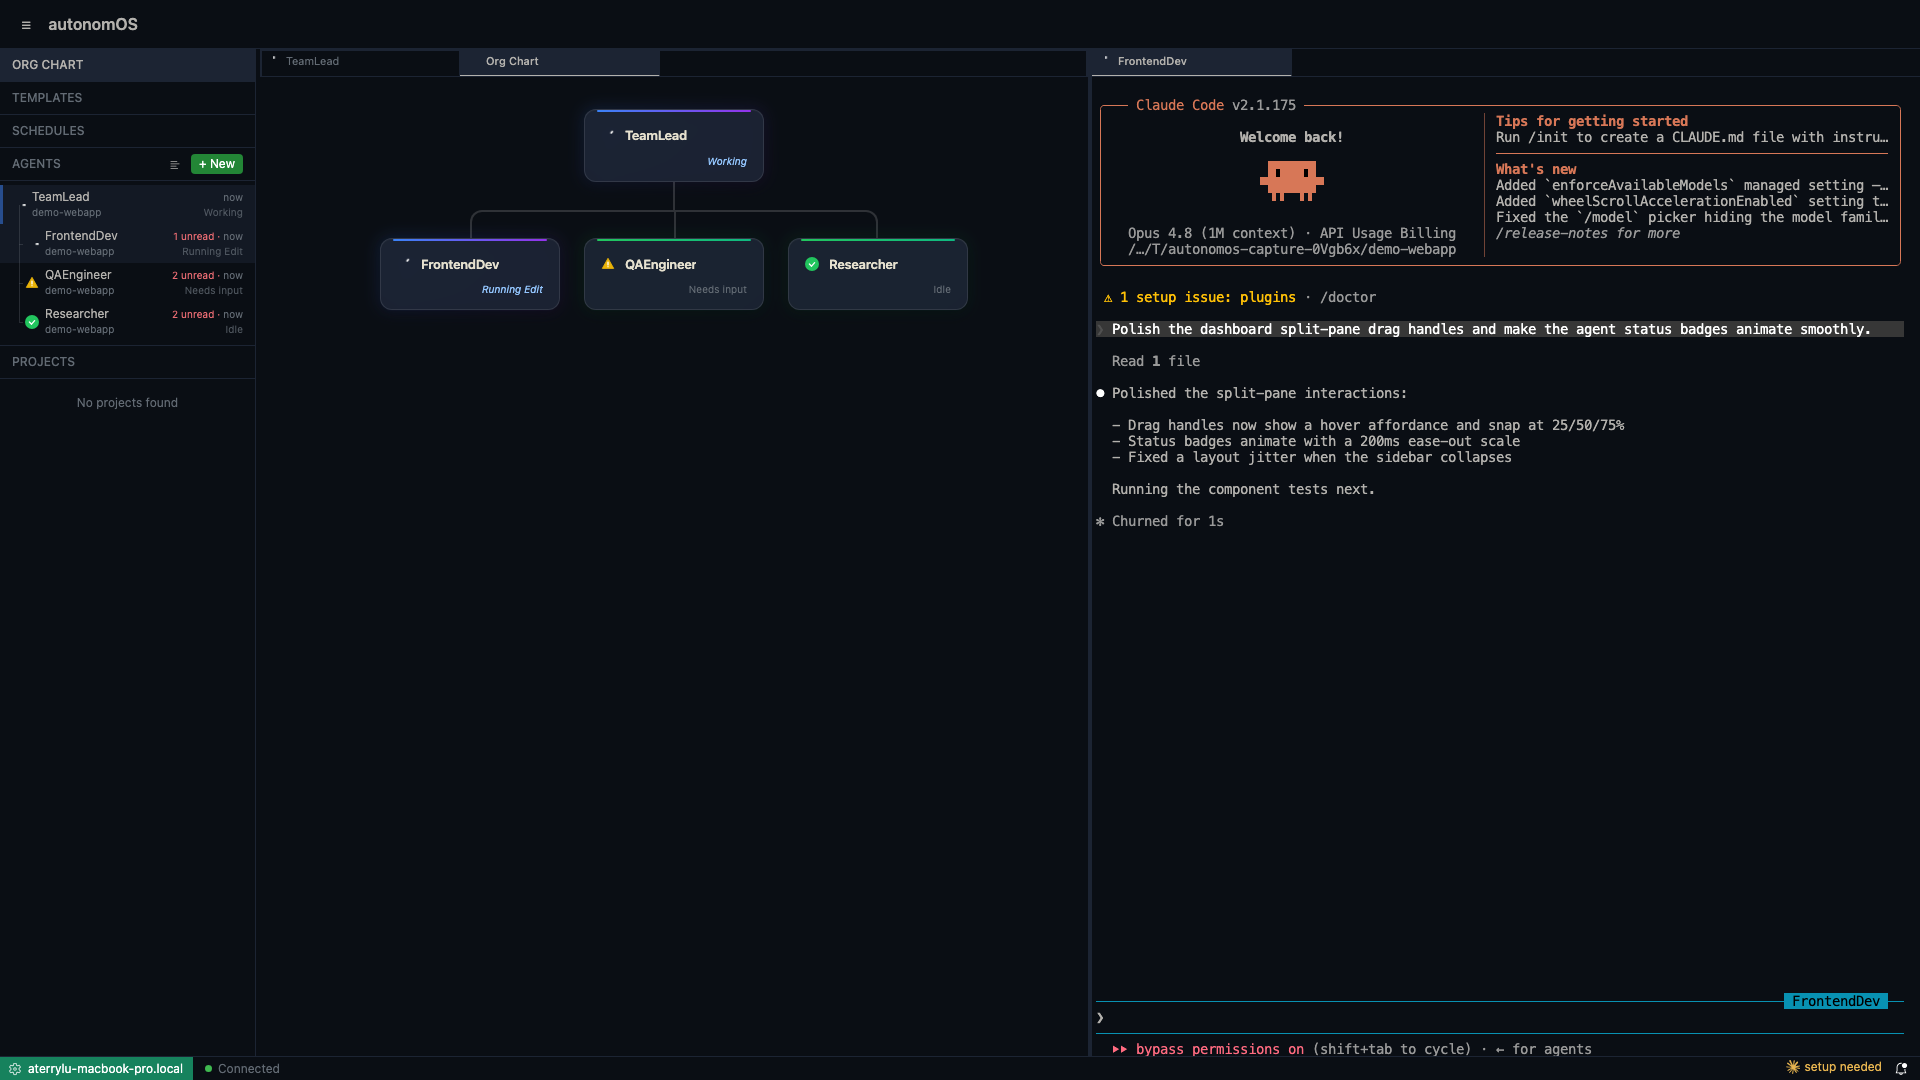
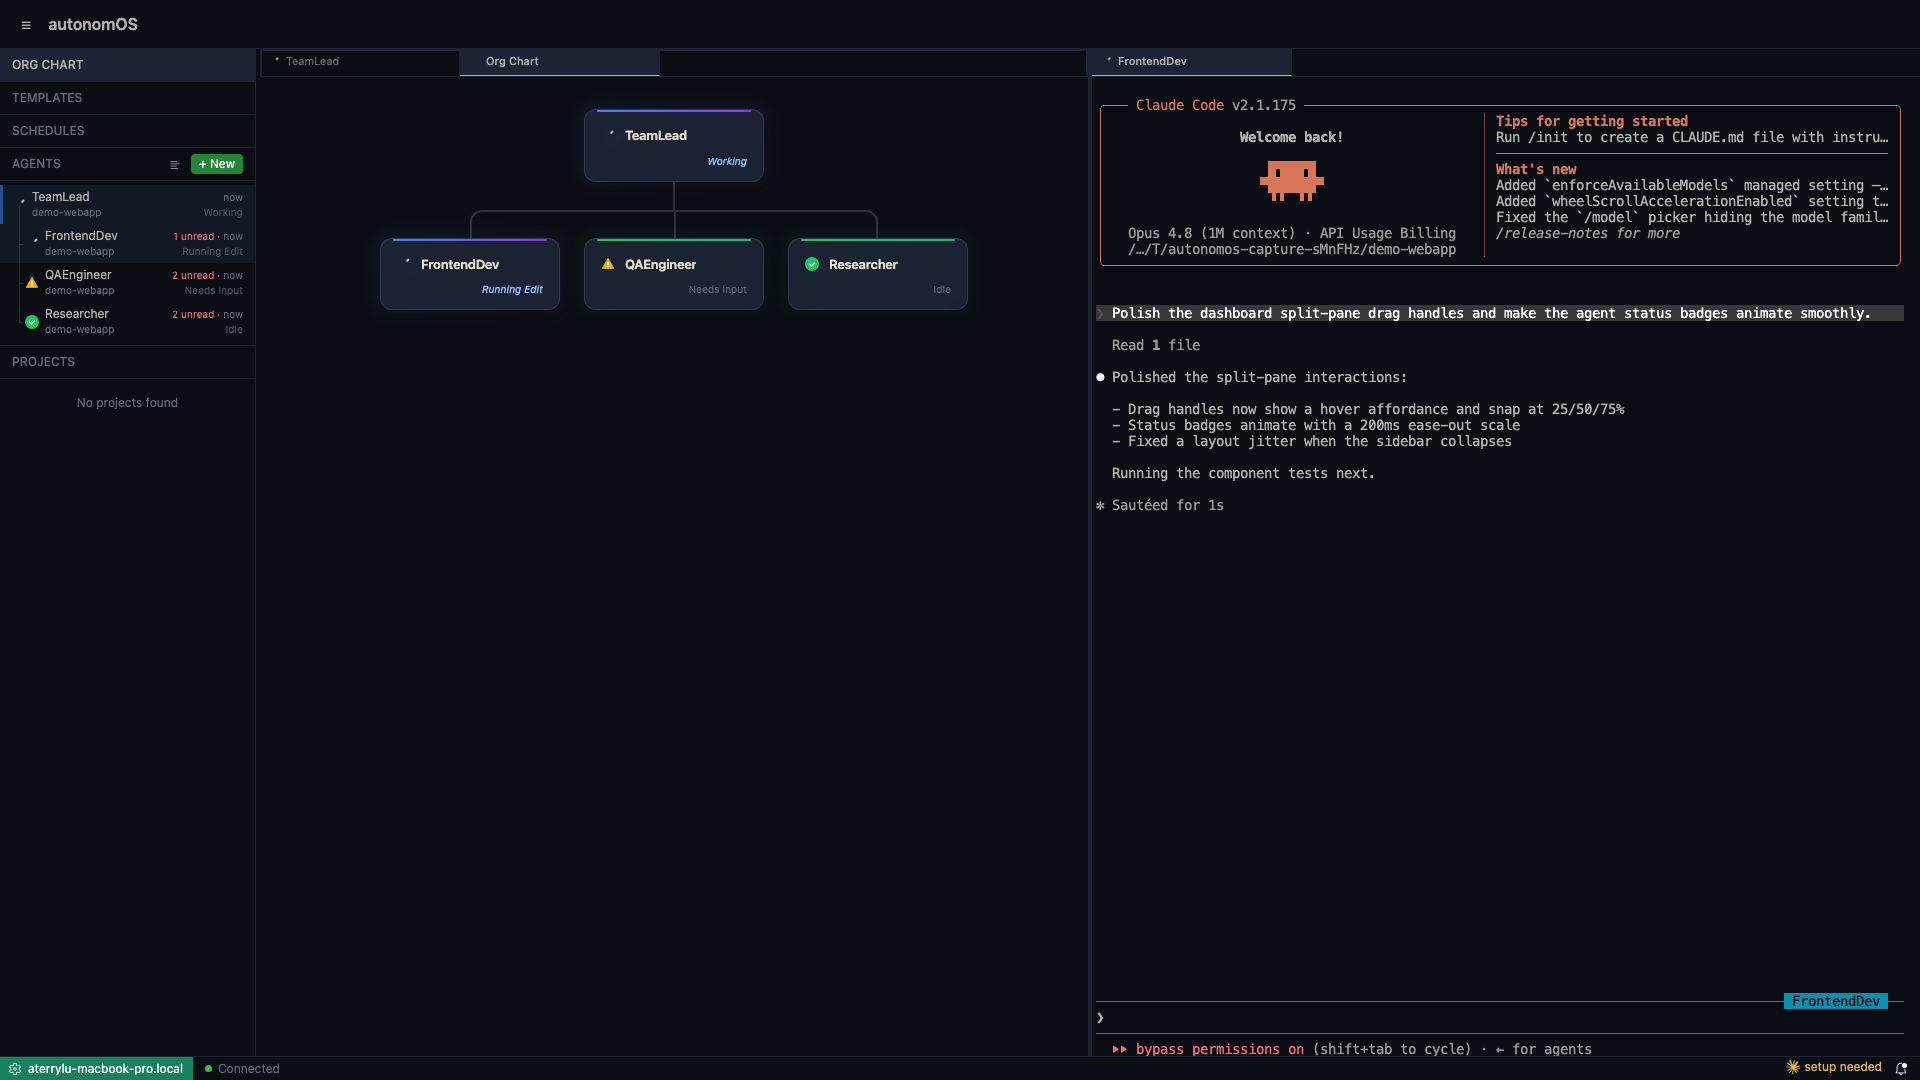
fix(tooling): redirect demo agents to mock via env vars, not settings fields
PR #214 removes the anthropicBaseUrl/anthropicAuthToken settings surface.
buildBaseEnv already spreads {...process.env} into spawned agents, so
setting ANTHROPIC_BASE_URL/ANTHROPIC_AUTH_TOKEN on the demo server child
works on current main AND after #214 — one mechanism, no migration window.
Verified with a full green harness run.

Changed region(s): [[0.5625, 0.275, 1.0, 0.4889], [0.6875, 0.2139, 0.7188, 0.2444]]

diff --git a/packages/dashboard/scripts/capture-demo.ts b/packages/dashboard/scripts/capture-demo.ts
@@ -337,13 +337,14 @@ async function bootServer(mockUrl: string): Promise<DemoServer> {
   const configDir = mkdtempSync(join(tmpdir(), "autonomos-demo-"));
   const token = `demo-${Math.random().toString(36).slice(2, 10)}`;
 
+  // The mock redirect travels as env vars on the server process (set below)
+  // — buildBaseEnv spreads {...process.env} into every spawned claude, so
+  // ANTHROPIC_BASE_URL/ANTHROPIC_AUTH_TOKEN flow through. Deliberately NOT
+  // the settings.json anthropic* fields: PR #214 removes that surface.
   writeFileSync(
     join(configDir, "settings.json"),
     `${JSON.stringify(
       {
-        anthropicBaseUrl: mockUrl,
-        anthropicAuthToken: "sk-demo",
-        anthropicOverrideEnabled: true,
         channels: [],
         autoTrust: true,
         statusLine: { enabled: false },
@@ -390,6 +391,8 @@ async function bootServer(mockUrl: string): Promise<DemoServer> {
     HOME: fakeHome,
     AUTONOMOS_CONFIG_DIR: configDir,
     AUTONOMOS_TOKEN: token,
+    ANTHROPIC_BASE_URL: mockUrl,
+    ANTHROPIC_AUTH_TOKEN: "sk-demo",
   };
   delete env.TMUX;
   delete env.TMUX_PANE;
